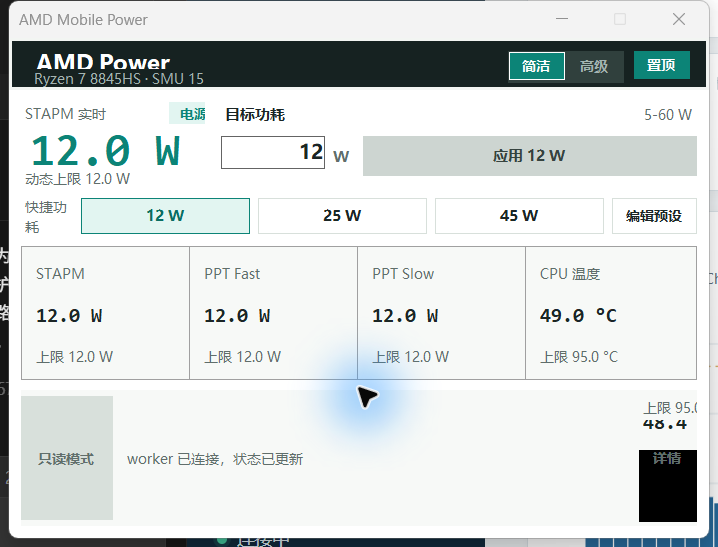
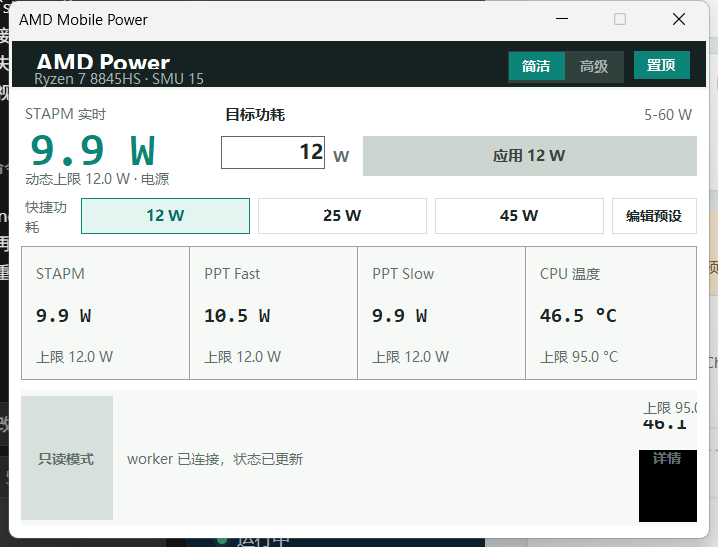
fix(gui): 移除简洁模式目标区灰色电源占位

diff --git a/src/AmdMobilePower.Gui/MainForm.cs b/src/AmdMobilePower.Gui/MainForm.cs
@@ -450,13 +450,12 @@ internal sealed class MainForm : Form
         TableLayoutPanel liveHeading = new()
         {
             Dock = DockStyle.Fill,
-            ColumnCount = 2,
+            ColumnCount = 1,
             RowCount = 1,
             BackColor = Color.Transparent,
             Margin = Padding.Empty
         };
         liveHeading.ColumnStyles.Add(new ColumnStyle(SizeType.Percent, 100));
-        liveHeading.ColumnStyles.Add(new ColumnStyle(SizeType.Absolute, 52));
         Label liveCaption = AppTheme.CreateLabel(
             "STAPM 实时",
             AppTheme.Small,
@@ -465,17 +464,6 @@ internal sealed class MainForm : Form
         liveCaption.Margin = Padding.Empty;
         liveCaption.AutoEllipsis = false;
         liveHeading.Controls.Add(liveCaption, 0, 0);
-
-        _simplePowerLineBadge = AppTheme.CreateLabel(
-            "--",
-            AppTheme.SmallBold,
-            AppTheme.Text,
-            ContentAlignment.MiddleCenter);
-        _simplePowerLineBadge.Dock = DockStyle.Fill;
-        _simplePowerLineBadge.Margin = Padding.Empty;
-        _simplePowerLineBadge.BackColor = AppTheme.SurfaceMuted;
-        _simplePowerLineBadge.AutoEllipsis = false;
-        liveHeading.Controls.Add(_simplePowerLineBadge, 1, 0);
         live.Controls.Add(liveHeading, 0, 0);
 
         TableLayoutPanel liveValues = new()
@@ -2089,23 +2077,17 @@ internal sealed class MainForm : Form
         }
 
         bool battery = telemetry.PowerLine == PowerLineState.Battery;
-        _powerLineBadge.Text = telemetry.PowerLine switch
-        {
-            PowerLineState.Ac => "电源",
-            PowerLineState.Battery => "电池",
-            _ => "未知"
-        };
+        string powerLineText = DescribePowerLine(telemetry.PowerLine);
+        _powerLineBadge.Text = powerLineText;
         _powerLineBadge.BackColor = battery ? AppTheme.BatterySoft : AppTheme.AccentSoft;
         _powerLineBadge.ForeColor = battery ? AppTheme.Battery : AppTheme.Accent;
         _currentPower.ForeColor = battery ? AppTheme.Battery : AppTheme.Accent;
-        _simplePowerLineBadge.Text = telemetry.PowerLine switch
+        if (_simplePowerLineBadge is not null)
         {
-            PowerLineState.Ac => "电源",
-            PowerLineState.Battery => "电池",
-            _ => "未知"
-        };
-        _simplePowerLineBadge.BackColor = _powerLineBadge.BackColor;
-        _simplePowerLineBadge.ForeColor = _powerLineBadge.ForeColor;
+            _simplePowerLineBadge.Text = powerLineText;
+            _simplePowerLineBadge.BackColor = _powerLineBadge.BackColor;
+            _simplePowerLineBadge.ForeColor = _powerLineBadge.ForeColor;
+        }
         _simpleCurrentPower.ForeColor = _currentPower.ForeColor;
 
         ConfigureInputs(minimum, maximum);
@@ -2138,7 +2120,7 @@ internal sealed class MainForm : Form
                 ? AppTheme.AccentSoft
                 : AppTheme.Border;
 
-        string line = battery ? "电池" : telemetry.PowerLine == PowerLineState.Ac ? "电源" : "未知电源";
+        string line = powerLineText;
         DateTimeOffset updatedAt = telemetry.UpdatedAt ?? DateTimeOffset.Now;
         _updatedLabel.Text = $"更新于 {updatedAt:HH:mm:ss} · {line}";
         _trayStatusItem.Text = $"当前：{line} · {FormatNumber(current)} W";
@@ -2630,7 +2612,19 @@ internal sealed class MainForm : Form
         }
 
         string limit = FormatNumber(_lastSnapshot?.Telemetry.StapmLimitWatts);
-        _simpleLimitSummary.Text = $"动态上限 {limit} W";
+        string powerLine = DescribePowerLine(
+            _lastSnapshot?.Telemetry.PowerLine ?? PowerLineState.Unknown);
+        _simpleLimitSummary.Text = $"动态上限 {limit} W · {powerLine}";
+    }
+
+    private static string DescribePowerLine(PowerLineState powerLine)
+    {
+        return powerLine switch
+        {
+            PowerLineState.Ac => "电源",
+            PowerLineState.Battery => "电池",
+            _ => "电源未知"
+        };
     }
 
     private void SetConnectionState(bool connected)

diff --git a/docs/UI_DESIGN_DATABASE.md b/docs/UI_DESIGN_DATABASE.md
@@ -569,6 +569,8 @@ Hero 右侧建议列宽：
 - WinForms 自动 DPI 缩放完成后才设置补偿后的窗口客户区，避免右侧和底部裁切。
 - 简洁和高级模式的电源栏都将系统报告的 AC 统一表述为“电源”，避免把
   USB-C 充电宝误显示为墙插交流电。
+- 简洁模式不再在“目标功耗”左侧保留独立电源徽标；电源状态并入实时功耗下方
+  的“动态上限 ... · 电源/电池”，避免未连接时出现 `--` 灰色占位残点。
 - 实时功耗合并为单个 `12.0 W` 文本，不再保留会贴近目标区左缘的独立 `W` 小控件。
 - 原生 `NumericUpDown` 已替换为纯数字文本输入，消除了隐藏 spinner 在 DPI 缩放下留下的灰色残点。
 
@@ -581,7 +583,8 @@ Hero 右侧建议列宽：
   `CPU 温度`、`上限 95.0 °C` 和状态消息。
 - Windows OCR 可读取 `写入已解锁`、`12 W`、`上限 12 W`、`5-60W`、
   `PPT Fast`、`PPT Slow` 等关键文本。
-- 像素检查确认目标输入左侧不再存在独立灰色 spinner 残点。
+- 像素检查确认目标输入左侧不再存在独立灰色 spinner 残点，且目标功耗左侧
+  空白区无独立灰色状态点。
 - 受控真实写入：
   - 目标 `10W`：STAPM/Fast/Slow 全部回读 `10.0W`。
   - 随后目标 `12W`：STAPM/Fast/Slow 全部回读 `12.0W`，实时 STAPM 约

diff --git a/docs/DEV_STATUS.md b/docs/DEV_STATUS.md
@@ -429,6 +429,9 @@ third_party/
   renders as one `12.0 W` label. Both compact and advanced mode now label
   external power as `电源`, because Windows cannot distinguish a power bank
   from a wall adapter.
+- Removed the compact-mode power-line badge beside `目标功耗`; its `--` startup
+  placeholder looked like a gray dot. The current source now appends `电源` or
+  `电池` to the `动态上限` line below the live STAPM value.
 - Rebuilt `artifacts/packages/amd-mobile-power-v0.1.3-dev-win-x64-lite.zip`
   with the final UI and multi-generation profile changes. The package is
   564,349 bytes with SHA256
